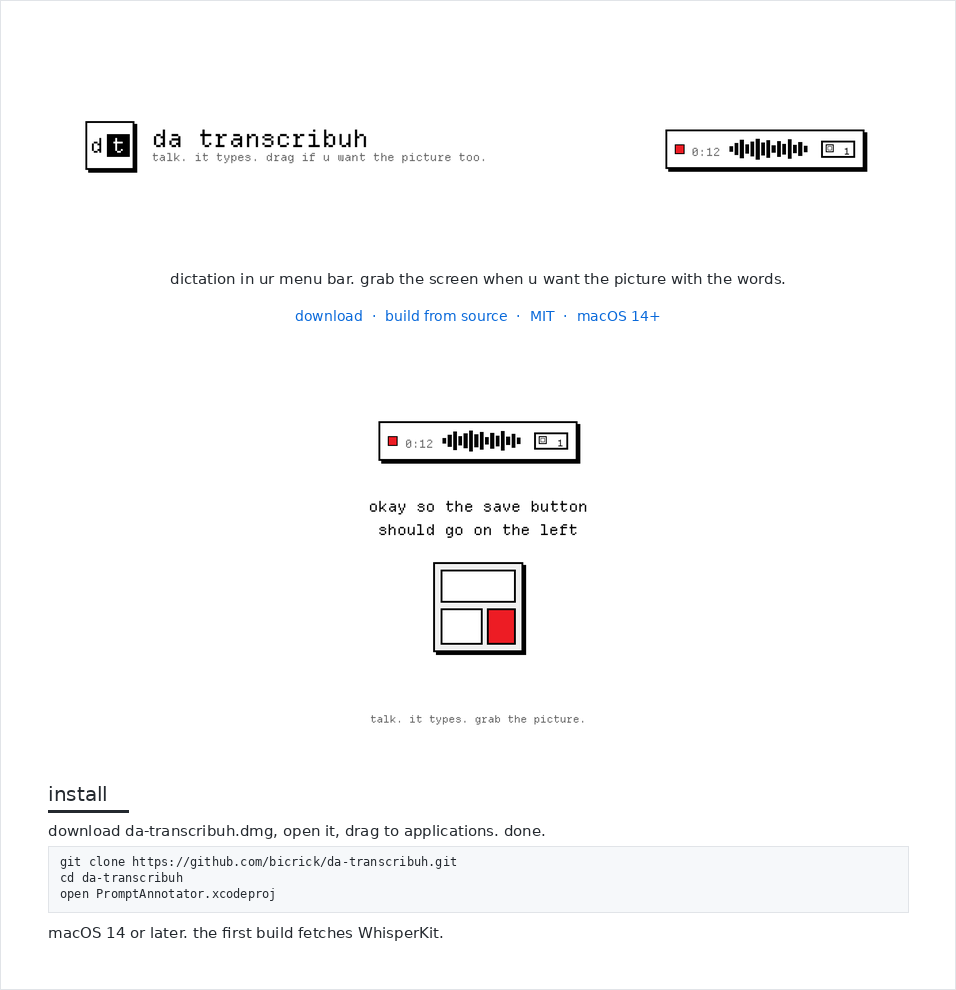
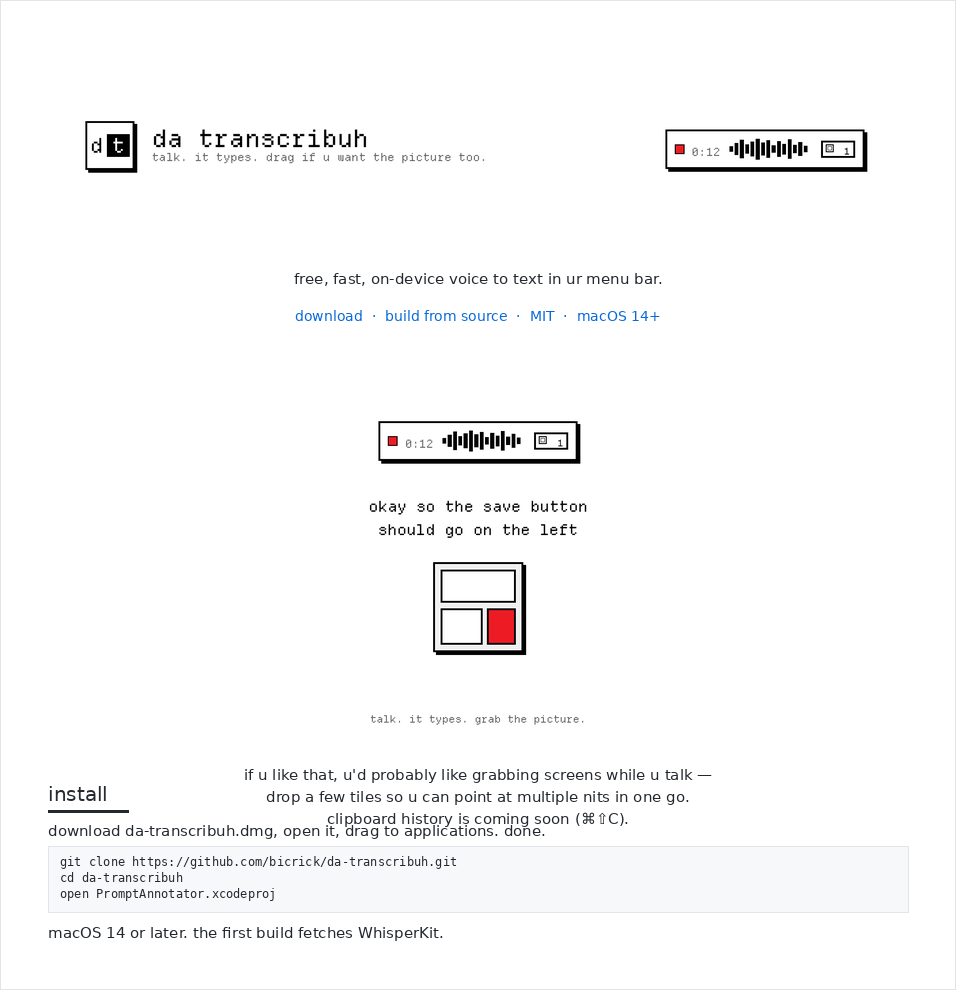
docs: pitch free on-device voice to text; soft extras
Lead with free/fast/on-device. Lowkey screenshot tiles tip. Clipboard
history marked coming soon until that PR merges. Keep u/ur lowercase.

Changed region(s): [[0.273, 0.7576, 0.728, 0.8485], [0.273, 0.2727, 0.819, 0.303], [0.182, 0.2727, 0.2427, 0.303]]

diff --git a/scripts/render_readme_preview.py b/scripts/render_readme_preview.py
@@ -34,43 +34,65 @@ def main() -> None:
 
     pad = 48
     W = bw + pad * 2
+    extras_h = 22 * 2 + 28  # two extra lines + gap
     y = pad + 8
-    blocks = []
-    blocks.append(("banner", y, bh))
+    by_banner = y
     y += bh + 28
-    blocks.append(("line", y, 20))
+    by_line = y
     y += 20 + 18
-    blocks.append(("links", y, 18))
+    by_links = y
     y += 18 + 28
-    blocks.append(("demo", y, dh))
-    y += dh + 36
-    blocks.append(("install", y, 160))
+    by_demo = y
+    y += dh + 20
+    by_extras = y
+    y += extras_h + 28
+    by_install = y
     y += 160 + pad
 
     img = Image.new("RGB", (W, y), (255, 255, 255))
     d = ImageDraw.Draw(img)
     d.rectangle([0, 0, W - 1, y - 1], outline=(225, 228, 232))
 
-    img.paste(banner, ((W - bw) // 2, blocks[0][1]))
+    img.paste(banner, ((W - bw) // 2, by_banner))
 
     body = font(SANS, 15)
     link = font(SANS, 14)
     mono = font(MONO, 12)
     h2 = font(SANS, 20)
 
-    line = "dictation in ur menu bar. grab the screen when u want the picture with the words."
+    line = "free, fast, on-device voice to text in ur menu bar."
     bb = d.textbbox((0, 0), line, font=body)
-    lw = bb[2] - bb[0]
-    d.text(((W - lw) // 2, blocks[1][1]), line, font=body, fill=(36, 41, 47))
+    d.text(((W - (bb[2] - bb[0])) // 2, by_line), line, font=body, fill=(36, 41, 47))
 
     links = "download  ·  build from source  ·  MIT  ·  macOS 14+"
     bb = d.textbbox((0, 0), links, font=link)
-    lw = bb[2] - bb[0]
-    d.text(((W - lw) // 2, blocks[2][1]), links, font=link, fill=(9, 105, 218))
+    d.text(((W - (bb[2] - bb[0])) // 2, by_links), links, font=link, fill=(9, 105, 218))
 
-    img.paste(demo, ((W - dw) // 2, blocks[3][1]))
+    img.paste(demo, ((W - dw) // 2, by_demo))
 
-    iy = blocks[4][1]
+    extras = [
+        "if u like that, u'd probably like grabbing screens while u talk. drop a few tiles so u can point at multiple nits in one go.",
+        "clipboard history is coming soon (⌘⇧C).",
+    ]
+    ey = by_extras
+    for extra in extras:
+        bb = d.textbbox((0, 0), extra, font=body)
+        # wrap long first line if needed — keep single line if it fits
+        lw = bb[2] - bb[0]
+        if lw > W - pad * 2:
+            # simple two-line split at "talk. "
+            parts = extra.split(". ", 1)
+            if len(parts) == 2:
+                a, b = parts[0] + ".", parts[1]
+                for part in (a, b):
+                    bb = d.textbbox((0, 0), part, font=body)
+                    d.text(((W - (bb[2] - bb[0])) // 2, ey), part, font=body, fill=(36, 41, 47))
+                    ey += 22
+                continue
+        d.text(((W - lw) // 2, ey), extra, font=body, fill=(36, 41, 47))
+        ey += 22
+
+    iy = by_install
     d.text((pad, iy), "install", font=h2, fill=(36, 41, 47))
     d.rectangle([pad, iy + 28, pad + 80, iy + 30], fill=(36, 41, 47))
     d.text(
@@ -86,8 +108,8 @@ def main() -> None:
     ]
     cy = iy + 72
     d.rectangle([pad, cy - 8, W - pad, cy + 58], fill=(246, 248, 250), outline=(225, 228, 232))
-    for i, line in enumerate(code):
-        d.text((pad + 12, cy + i * 16), line, font=mono, fill=(36, 41, 47))
+    for i, c in enumerate(code):
+        d.text((pad + 12, cy + i * 16), c, font=mono, fill=(36, 41, 47))
     d.text(
         (pad, cy + 70),
         "macOS 14 or later. the first build fetches WhisperKit.",

diff --git a/README.md b/README.md
@@ -1,8 +1,8 @@
 <p align="center">
-  <img src="assets/brand/readme-banner.png" alt="da transcribuh — talk. it types. drag if u want the picture too." width="920">
+  <img src="assets/brand/readme-banner.png" alt="da transcribuh — free on-device voice to text" width="920">
 </p>
 
-<p align="center">dictation in ur menu bar. grab the screen when u want the picture with the words.</p>
+<p align="center">free, fast, on-device voice to text in ur menu bar.</p>
 
 <p align="center">
   <a href="https://github.com/bicrick/da-transcribuh/releases/latest">download</a>
@@ -17,6 +17,10 @@
 <p align="center">
   <img src="assets/brand/mocks/readme-island-demo-light.png" alt="recording island — talk. it types. grab the picture." width="920">
 </p>
+
+<p align="center">if u like that, u'd probably like grabbing screens while u talk. drop a few tiles so u can point at multiple nits in one go.</p>
+
+<p align="center">clipboard history is coming soon (⌘⇧C).</p>
 
 ## install
 
